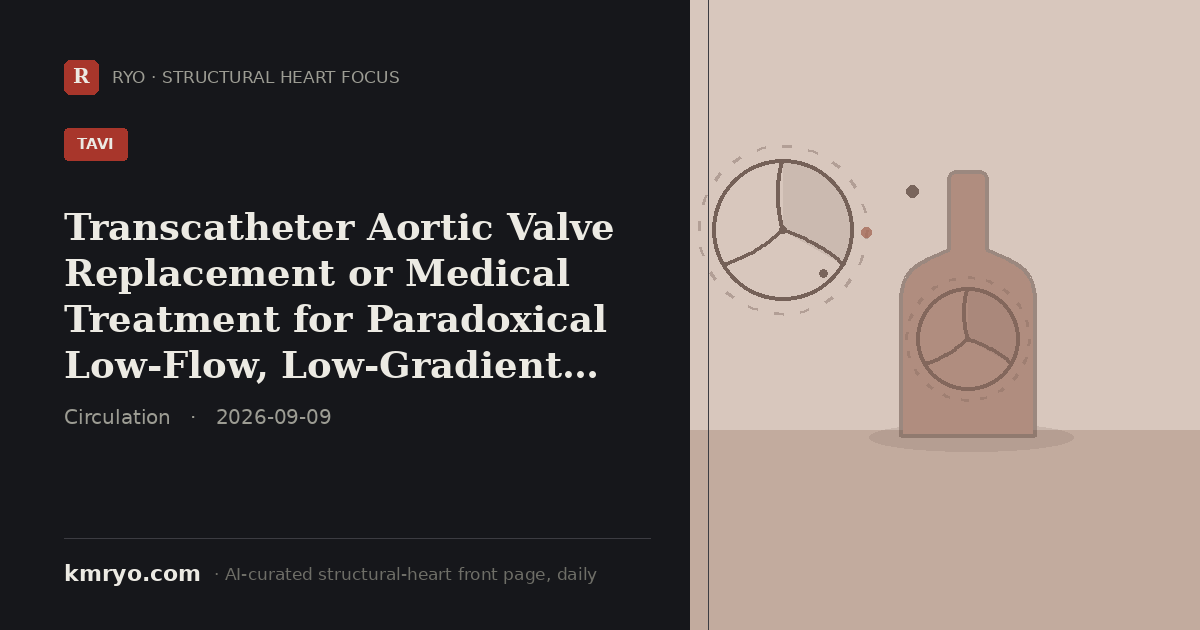
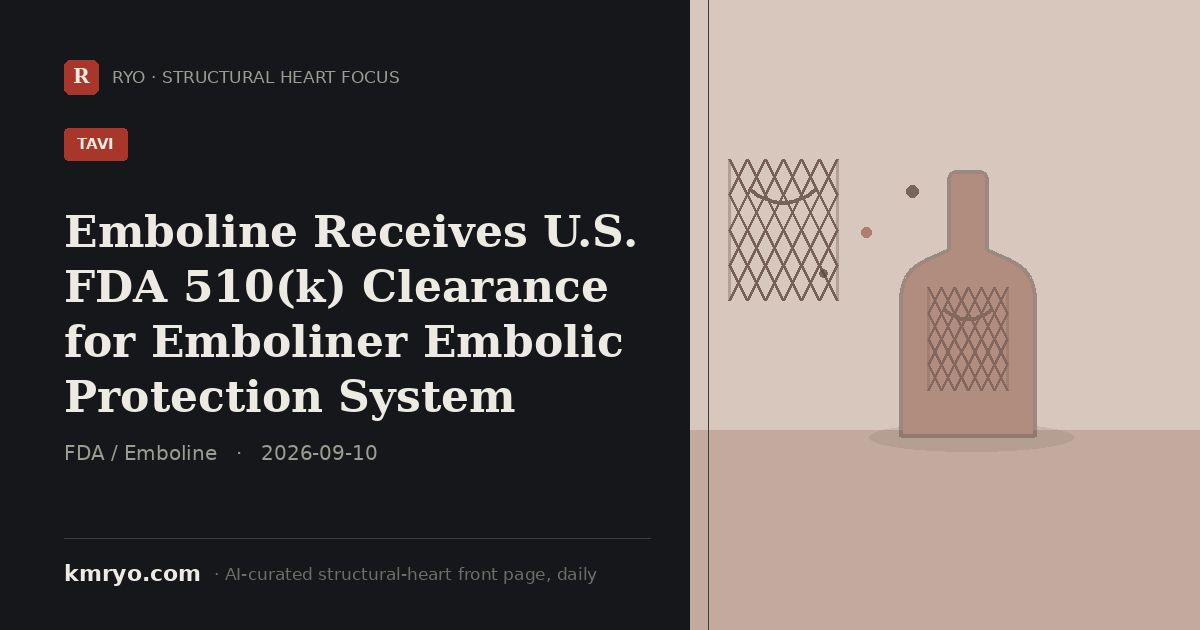
pulse: 2026-09-10 daily update
Claude-Session: https://claude.ai/code/session_01JzPYPhfwUddgGV8kVEGYam

Changed region(s): [[0.0308, 0.3317, 0.5242, 0.754], [0.5858, 0.2413, 0.7092, 0.4825], [0.74, 0.4524, 0.8633, 0.6333]]

diff --git a/index.html b/index.html
@@ -6,8 +6,8 @@
 <title>Structural Heart Focus — Daily | Dr. Mi Chen · 千觅量子 RYO</title>
 <meta name="description" content="Structural Heart Focus — the day's most important structural-heart reading (top journals, major meetings and the field's conversation), curated daily by an AI agent from inside the Zurich hybrid room. By Dr. Mi Chen · 千觅量子 RYO.">
 <!-- Social share card. Regenerated daily by the pulse agent (pulse/make_share_card.py); og:title/description updated to the day's top story so LinkedIn/WeChat/X show today's headline, not a static portrait. -->
-<meta property="og:title" content="TAVR vs Medical Therapy in Paradoxical Low-Gradient Aortic Stenosis: REBOOT-PARADOX">
-<meta property="og:description" content="This ESC Congress 2026 randomized trial, published in Circulation, found TAVR did not significantly reduce mortality versus medical therapy in paradoxical low-flow, low-gradient severe aortic stenosis.">
+<meta property="og:title" content="Emboline Receives U.S. FDA 510(k) Clearance for Emboliner Embolic Protection System">
+<meta property="og:description" content="Emboline's Emboliner full-body embolic protection system for TAVR won FDA 510(k) clearance, backed by the PROTECT H2H pivotal trial showing noninferiority to Sentinel with 3x more debris captured.">
 <meta property="og:image" content="https://www.kmryo.com/pulse/img/share/card.png">
 <meta property="og:image:width" content="1200">
 <meta property="og:image:height" content="630">
@@ -16,8 +16,8 @@
 <meta property="og:type" content="website">
 <meta property="og:site_name" content="kmryo.com · Structural Heart Focus">
 <meta name="twitter:card" content="summary_large_image">
-<meta name="twitter:title" content="TAVR vs Medical Therapy in Paradoxical Low-Gradient Aortic Stenosis: REBOOT-PARADOX">
-<meta name="twitter:description" content="This ESC Congress 2026 randomized trial, published in Circulation, found TAVR did not significantly reduce mortality versus medical therapy in paradoxical low-flow, low-gradient severe aortic stenosis.">
+<meta name="twitter:title" content="Emboline Receives U.S. FDA 510(k) Clearance for Emboliner Embolic Protection System">
+<meta name="twitter:description" content="Emboline's Emboliner full-body embolic protection system for TAVR won FDA 510(k) clearance, backed by the PROTECT H2H pivotal trial showing noninferiority to Sentinel with 3x more debris captured.">
 <meta name="twitter:image" content="https://www.kmryo.com/pulse/img/share/card.png">
[1 lines of base64/hex data omitted]
 <link rel="preconnect" href="https://fonts.googleapis.com">
